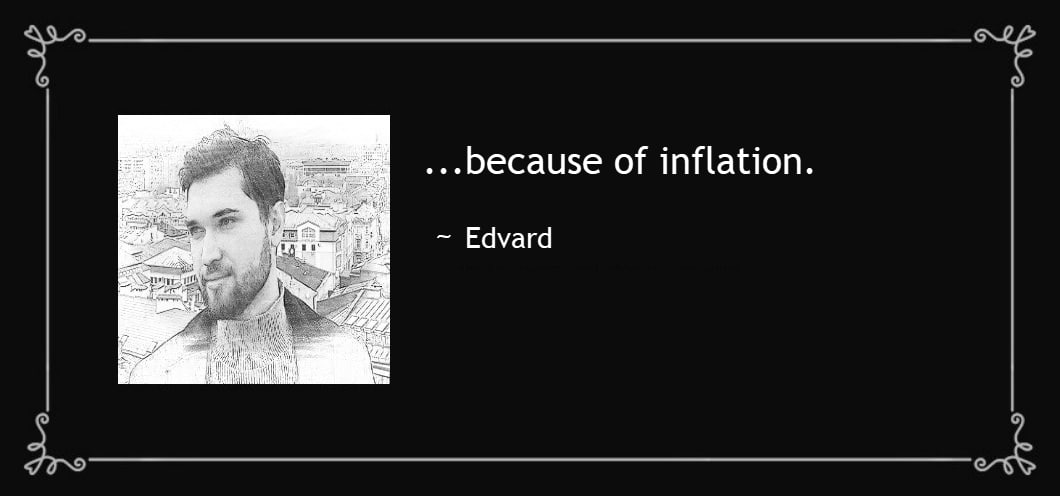
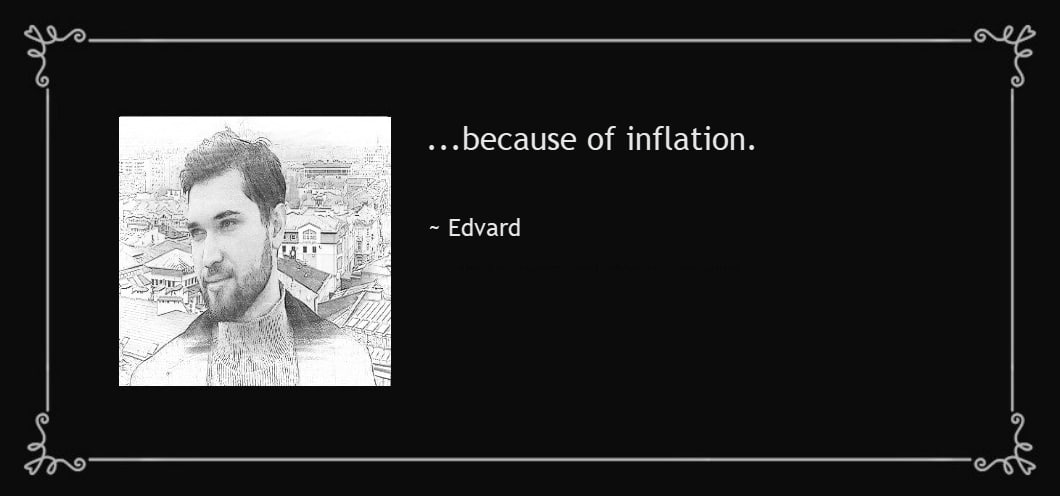
Complete all slides

Changed region(s): [[0.0934, 0.2117, 0.3736, 0.7863], [0.4047, 0.2419, 0.7783, 0.3629], [0.4047, 0.4234, 0.5292, 0.5141]]

diff --git a/index.html b/index.html
@@ -4,7 +4,7 @@
 <head>
     <meta charset="UTF-8">
     <meta name="viewport" content="width=device-width, initial-scale=1.0">
-    <title>Document</title>
+    <title>Compensation review</title>
     <link rel="stylesheet" href="./style.css">
     <script type="text/javascript" src="https://code.jquery.com/jquery-1.7.1.min.js"></script>
     <script type="text/javascript" src="https://rkei0.csb.app/turn.min.js"></script>
@@ -19,7 +19,7 @@
 <body>
     <div id="book">
         <div class="cover">
-            <h1>Performance (self)review</h1>
+            <h1>Compensation review</h1>
         </div>
         <div class="regular-page first">
             <h1>
@@ -27,7 +27,7 @@
                 </h1>
                 <div> Last 6 months:</div>
                 <ul>
-                    <li><span> <b>2</b> Shadowing/Monitoring sessions</span> 
+                    <li><span> <b>3</b> Shadowing/Monitoring sessions</span> 
                         <img class="list-item-img" src="./images/shadowing.png" alt="">
                     </li>
                     <li><span><b>2</b> Ticket analysis projects</span> 
@@ -129,26 +129,38 @@
             <img src="./images/hawthorn-quote.jpeg" alt="" style="width: 90%; transform: translateX(-15px);">
         </div>
         <div class="regular-page">
-            <h1>...because of the inflation
+            <h1 style="transform: translateY(-25px);">...because of inflation
             </h1>
-            <img src="./images/edvard-quote.jpeg" alt="" style="width: 90%; transform: translateX(-15px);">
+            <img src="./images/edvard-quote.jpeg" alt="" style="width: 90%; transform: translate(-15px, -45px);">
 
         </div>
         <div class="regular-page">
             
-                <h2 style="width: 90%; transform: translateY(-40px);">I am not asking for a raise in 2024, I am asking to return my compensation to its level from 2021 with inflation taken into account.</h2>
+                <h2 style="font-size: 30px; text-align: center; width: 95%; transform: translate(-10px, -40px);">I am not asking for a raise in 2023 or 2024, I am asking to adjust my compensation back to its level from 2021 with inflation taken into account.</h2>
             
             
             <img src="./images/inflation-2010-2028.png" alt="" style="width: 75%; transform: translate(-15px, -90px);">
 
         </div>
         <div class="regular-page">
-            <h1>The least you can do is keep my salary consistent wiith the inflation. (c) Dwight K. Schrute
+            <h1 style="font-size: 32x; text-align: center; width: 90%">To match my compensation from 2021, I ask you to increase its nominal value by 20%.
             </h1>
+            <img src="./images/inflation-1usd.png" alt="" style="width: 75%; transform: translate(-15px, -30px);">
+
         </div>
         <div class="regular-page">
-            <h1>The least you can do is keep my salary consistent wiith the inflation. (c) Dwight K. Schrute
+            <h1 style="font-size: 32x; text-align:justify; width: 90%">The least you can do is keep my salary consistent wiith the inflation. 
             </h1>
+            <h2 style="font-size: 22x; text-align:end; width: 90%; transform: translateY(-80px);">- Dwight K. Schrute</h2>
+            <img src="./images/dwight.jpeg" alt="" style="font-size: 22x; text-align:end; width: 60%;transform: translateY(-100px);">
+
+        </div>
+        <div class="regular-page">
+            <h1>"We accept all forms of payment"
+            </h1>
+            <img src="./images/payments.jpeg" alt="" style="width: 60%;transform: translateY(-40px);">
+            <p style="width: 90%; text-align: center; transform: translateY(-50px);">My preference would be the direct salary increase, but I will also be grateful for a stock package, extra vacation days or any other form of compensation of equal value. 
+            </p>
         </div>
     </div>
 
